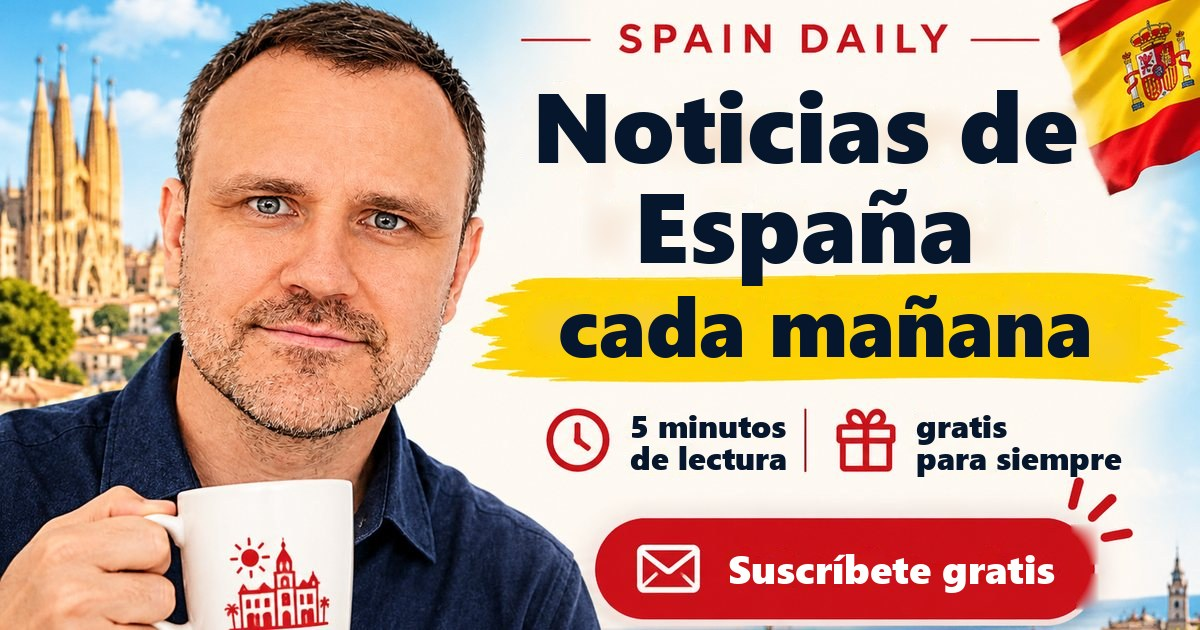
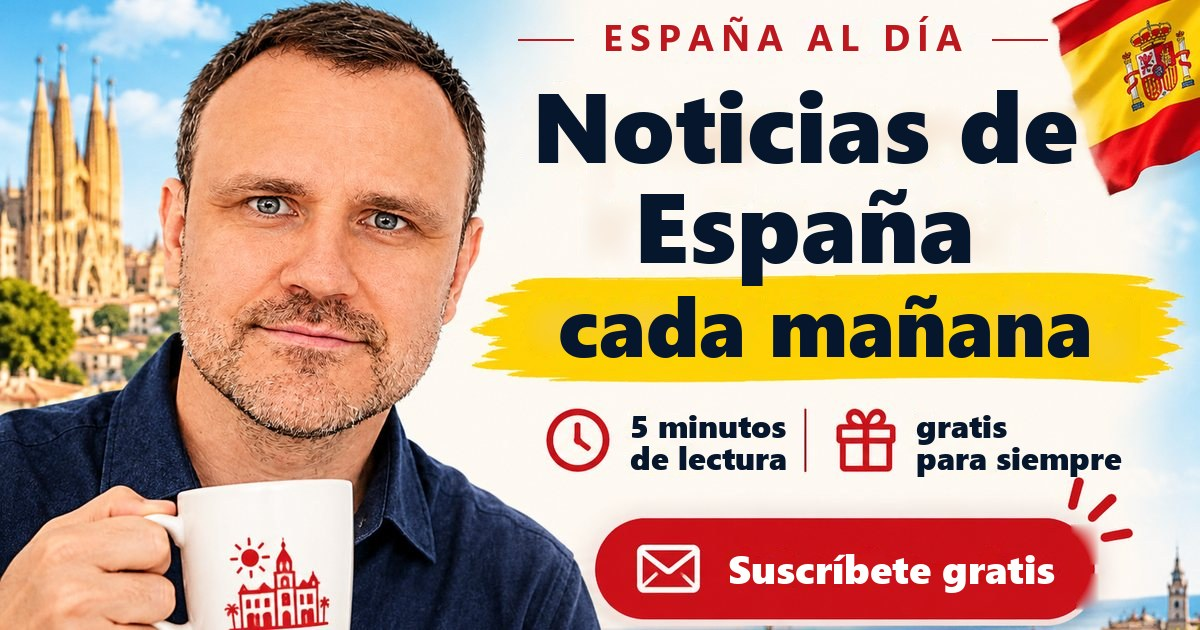
Spanish pages: rename Spain Daily to "España al Día" (#214)
Uses the Spanish brand name across /es/ pages, the Spanish form consent
line and FAQ, and the /es/subscribe og:image kicker.

Changed region(s): [[0.4317, 0.0302, 0.8633, 0.0905]]

diff --git a/templates/es/subscribe.html b/templates/es/subscribe.html
@@ -2,26 +2,26 @@
 {# Minimal Spanish /subscribe: hero + form, how it is made, editor, FAQ.
    Skips the English page's latest-edition preview, social counters and
    Reddit testimonials, which would show English text. #}
-{% block title %}Newsletter gratis de noticias de España | Spain Daily{% endblock %}
-{% block description %}<meta name="description" content="Suscríbete gratis a Spain Daily: las noticias más importantes de España en un email al día, 5 minutos de lectura. Sin spam y te das de baja cuando quieras.">
+{% block title %}Newsletter gratis de noticias de España | España al Día{% endblock %}
+{% block description %}<meta name="description" content="Suscríbete gratis a España al Día: las noticias más importantes de España en un email al día, 5 minutos de lectura. Sin spam y te das de baja cuando quieras.">
 <meta property="og:type" content="website">
 <meta property="og:locale" content="es_ES">
-<meta property="og:title" content="Newsletter gratis de noticias de España | Spain Daily">
-<meta property="og:description" content="Suscríbete gratis a Spain Daily: las noticias más importantes de España en un email al día, 5 minutos de lectura. Sin spam y te das de baja cuando quieras.">
+<meta property="og:title" content="Newsletter gratis de noticias de España | España al Día">
+<meta property="og:description" content="Suscríbete gratis a España al Día: las noticias más importantes de España en un email al día, 5 minutos de lectura. Sin spam y te das de baja cuando quieras.">
 <meta property="og:url" content="{{ site_url }}/es/subscribe">
 <meta name="twitter:card" content="summary_large_image">
-<meta name="twitter:title" content="Newsletter gratis de noticias de España | Spain Daily">
-<meta name="twitter:description" content="Suscríbete gratis a Spain Daily: las noticias más importantes de España en un email al día, 5 minutos de lectura. Sin spam y te das de baja cuando quieras.">
+<meta name="twitter:title" content="Newsletter gratis de noticias de España | España al Día">
+<meta name="twitter:description" content="Suscríbete gratis a España al Día: las noticias más importantes de España en un email al día, 5 minutos de lectura. Sin spam y te das de baja cuando quieras.">
 <meta name="twitter:image" content="https://spanified.com/static/img/social/subscribe-es.jpg">
 <meta name="robots" content="max-image-preview:large">{% endblock %}
 {% block og_image %}<meta property="og:image" content="https://spanified.com/static/img/social/subscribe-es.jpg">
 <meta property="og:image:width" content="1200">
 <meta property="og:image:height" content="630">
-<meta property="og:image:alt" content="Spain Daily: noticias de España cada mañana, 5 minutos de lectura. Suscríbete gratis.">{% endblock %}
+<meta property="og:image:alt" content="España al Día: noticias de España cada mañana, 5 minutos de lectura. Suscríbete gratis.">{% endblock %}
 {% block extra_head %}
 {% set alt_path = "/subscribe" %}{% include "partials/hreflang.html" %}
 <script type="application/ld+json">
-{"@context": "https://schema.org", "@type": "WebPage", "@id": "{{ site_url }}/es/subscribe#webpage", "name": "Suscríbete a la newsletter Spain Daily",
+{"@context": "https://schema.org", "@type": "WebPage", "@id": "{{ site_url }}/es/subscribe#webpage", "name": "Suscríbete a la newsletter España al Día",
  "url": "{{ site_url }}/es/subscribe", "inLanguage": "es",
  "isPartOf": {"@id": "{{ site_url }}/#website"}, "about": {"@id": "{{ site_url }}/#spain-daily"},
  "publisher": {"@id": "{{ site_url }}/#org"}, "isAccessibleForFree": true}
@@ -37,7 +37,7 @@
 {% block content %}
 <section class="sub-hero">
  <div class="sub-hero-main">
-  <h1>Suscríbete a la newsletter Spain Daily</h1>
+  <h1>Suscríbete a la newsletter España al Día</h1>
   <p class="sub-lede">Las noticias más importantes de España, resumidas en un email gratis al día. Llega sobre las 08:00, hora de Madrid.</p>
   {% set btn_label = "Suscribirme gratis" %}
   {% set btn_icon = true %}
@@ -46,14 +46,14 @@
   {% include "partials/subscribe-form.html" %}
   <div class="reader-proof">
    <div class="reader-proof-text">
-    <strong>Únete a los más de 1.000 suscriptores de Spain Daily</strong>
+    <strong>Únete a los más de 1.000 suscriptores de España al Día</strong>
     <span>Se envía cada día desde el {{ proof.first_issue_es }}: {{ proof.total_issues_es }} ediciones hasta hoy</span>
    </div>
   </div>
   <ul class="sub-promises">
    <li>Gratis, sin muro de pago</li>
    <li>Te das de baja con un clic desde cualquier email</li>
-   <li>Tu email solo se usa para enviarte Spain Daily (<a href="/es/privacy">privacidad</a>)</li>
+   <li>Tu email solo se usa para enviarte España al Día (<a href="/es/privacy">privacidad</a>)</li>
   </ul>
  </div>
  {# Stands in for the English page's latest-edition preview (its stories
@@ -62,7 +62,7 @@
  <aside class="sub-preview" aria-labelledby="sub-preview-title">
   <div class="sub-preview-sheet">
    <div class="sub-preview-band">
-    <span class="sub-preview-from">Spain Daily</span>
+    <span class="sub-preview-from">España al Día</span>
     <span class="sub-preview-time">08:00</span>
    </div>
    <div class="email-gold-band"></div>
@@ -102,7 +102,7 @@
 
 <section class="sub-people">
  <div class="sub-who">
-  <h2>¿Para quién es Spain Daily?</h2>
+  <h2>¿Para quién es España al Día?</h2>
   <p>Para quien quiere estar al día de lo que pasa en España sin leer una docena de webs: residentes, quienes preparan una mudanza y quienes siguen España desde fuera. Política, economía, sociedad, cultura y vida diaria, en cinco minutos y con enlace a cada fuente.</p>
  </div>
  <div class="sub-editor">

diff --git a/templates/es/terms.html b/templates/es/terms.html
@@ -2,15 +2,15 @@
 {# Spanish translation of templates/terms.html. Keep the two in sync. #}
 {% block body_class %} class="page-legal"{% endblock %}
 {% block title %}Condiciones de uso | Spanified{% endblock %}
-{% block description %}<meta name="description" content="Condiciones de uso de Spanified, la newsletter gratuita Spain Daily y su web: contenido elaborado con ayuda de IA, sin asesoramiento profesional y uso aceptable.">
+{% block description %}<meta name="description" content="Condiciones de uso de Spanified, la newsletter gratuita España al Día y su web: contenido elaborado con ayuda de IA, sin asesoramiento profesional y uso aceptable.">
 <meta property="og:type" content="article">
 <meta property="og:locale" content="es_ES">
 <meta property="og:title" content="Condiciones de uso | Spanified">
-<meta property="og:description" content="Condiciones de uso de Spain Daily, la newsletter gratuita de Spanified, y de su web.">
+<meta property="og:description" content="Condiciones de uso de España al Día, la newsletter gratuita de Spanified, y de su web.">
 <meta property="og:url" content="{{ site_url }}/es/terms">
 <meta name="twitter:card" content="summary">
 <meta name="twitter:title" content="Condiciones de uso | Spanified">
-<meta name="twitter:description" content="Condiciones de uso de Spain Daily, la newsletter gratuita de Spanified, y de su web.">
+<meta name="twitter:description" content="Condiciones de uso de España al Día, la newsletter gratuita de Spanified, y de su web.">
 <meta name="robots" content="max-image-preview:large">{% endblock %}
 
 {% block canonical %}<link rel="canonical" href="{{ site_url }}/es/terms">
@@ -20,7 +20,7 @@
 {"@context": "https://schema.org", "@type": "WebPage",
  "name": "Condiciones de uso | Spanified",
  "url": "{{ site_url }}/es/terms",
- "description": "Condiciones de uso de Spain Daily, la newsletter gratuita de Spanified, y de su web.",
+ "description": "Condiciones de uso de España al Día, la newsletter gratuita de Spanified, y de su web.",
  "inLanguage": "es",
  "about": {"@type": "Organization", "name": "Spanified", "url": "{{ site_url }}/"}}
 </script>
@@ -30,7 +30,7 @@
 
   <div class="card">
    <h2>Qué es Spanified</h2>
-   <p>Spanified publica Spain Daily, un resumen matutino gratuito de la actualidad de España que se lee en esta web y llega por email. El servicio es gratis para siempre: no hay cuentas ni muro de pago.</p>
+   <p>Spanified publica España al Día, un resumen matutino gratuito de la actualidad de España que se lee en esta web y llega por email. El servicio es gratis para siempre: no hay cuentas ni muro de pago.</p>
   </div>
 
   <div class="card">

diff --git a/templates/es/privacy.html b/templates/es/privacy.html
@@ -31,12 +31,12 @@
 
   <div class="card">
    <h2>Quiénes somos</h2>
-   <p>Spanified publica la newsletter Spain Daily y esta web. Para cualquier pregunta sobre privacidad, escribe a <a href="mailto:support@spanified.com">support@spanified.com</a>; solemos responder en un par de días.</p>
+   <p>Spanified publica la newsletter España al Día y esta web. Para cualquier pregunta sobre privacidad, escribe a <a href="mailto:support@spanified.com">support@spanified.com</a>; solemos responder en un par de días.</p>
   </div>
 
   <div class="card">
    <h2>Qué datos recogemos</h2>
-   <p><strong>El email de la newsletter.</strong> Cuando te suscribes, guardamos tu dirección de email para enviarte Spain Daily. Las suscripciones se gestionan en Listmonk, el programa de newsletters que usamos, y los emails se envían a través de un servicio de envío que trata tu dirección por cuenta nuestra. El formulario de suscripción está protegido por Cloudflare (verificación antibots Turnstile), que procesa el envío del formulario.</p>
+   <p><strong>El email de la newsletter.</strong> Cuando te suscribes, guardamos tu dirección de email para enviarte España al Día. Las suscripciones se gestionan en Listmonk, el programa de newsletters que usamos, y los emails se envían a través de un servicio de envío que trata tu dirección por cuenta nuestra. El formulario de suscripción está protegido por Cloudflare (verificación antibots Turnstile), que procesa el envío del formulario.</p>
    <p><strong>Analítica y medición de anuncios, solo con tu consentimiento.</strong> Si lo aceptas en el aviso de cookies, usamos Google Analytics 4 para saber qué páginas se leen y el píxel de Meta para medir las suscripciones que llegan desde nuestros anuncios en Facebook e Instagram. Ambos instalan cookies y envían a Google y a Meta tu dirección IP, datos de tu dispositivo y de las páginas que visitas. Si no lo aceptas, no se carga ninguno de los dos. Tienes los detalles en nuestra <a href="/es/cookies">política de cookies</a>.</p>
    <p>No tenemos cuentas de usuario, comentarios ni más rastreadores que estos. La web se lee gratis y sin registro.</p>
   </div>

diff --git a/templates/es/unsubscribe.html b/templates/es/unsubscribe.html
@@ -1,20 +1,20 @@
 {% extends "es/base.html" %}
 {% block body_class %} class="page-unsubscribe"{% endblock %}
-{% block title %}Darse de baja de Spain Daily{% endblock %}
-{% block description %}<meta name="description" content="Cómo darse de baja de Spain Daily: usa el enlace que hay al final de cualquier email.">
+{% block title %}Darse de baja de España al Día{% endblock %}
+{% block description %}<meta name="description" content="Cómo darse de baja de España al Día: usa el enlace que hay al final de cualquier email.">
 <meta name="robots" content="noindex, follow">{% endblock %}
 {% block content %}
  <div class="subscribe-intro">
   <p class="subscribe-kicker">Sentimos que te vayas</p>
   <h1>Cómo <span class="accent">darse de baja</span></h1>
-  <p>Todos los emails de Spain Daily terminan con un enlace para darte de baja, sin iniciar sesión. Puedes volver cuando quieras.</p>
+  <p>Todos los emails de España al Día terminan con un enlace para darte de baja, sin iniciar sesión. Puedes volver cuando quieras.</p>
  </div>
  {# No form, same as the English page: Listmonk's public API is subscribe-only. #}
  <div class="unsub-keep">
   <p class="confirm-kicker">Cómo funciona</p>
   <h2>Tres pasos</h2>
   <ol class="confirm-steps">
-   <li><div><strong>Abre cualquier email de Spain Daily</strong>: el más reciente es el más fácil de encontrar.</div></li>
+   <li><div><strong>Abre cualquier email de España al Día</strong>: el más reciente es el más fácil de encontrar.</div></li>
    <li><div><strong>Haz clic en el enlace de baja</strong> al final del email.</div></li>
    <li><div><strong>Confírmalo en la página que se abre</strong> y listo.</div></li>
   </ol>

diff --git a/templates/es/success.html b/templates/es/success.html
@@ -1,7 +1,7 @@
 {% extends "es/base.html" %}
 {% block body_class %} class="page-success"{% endblock %}
-{% block title %}Spain Daily: suscripción confirmada{% endblock %}
-{% block description %}<meta name="description" content="Ya estás suscrito a Spain Daily: las noticias más importantes de España, cada mañana.">
+{% block title %}España al Día: suscripción confirmada{% endblock %}
+{% block description %}<meta name="description" content="Ya estás suscrito a España al Día: las noticias más importantes de España, cada mañana.">
 <meta name="robots" content="noindex, follow">{% endblock %}
 {% block content %}
  <div class="centered-page">
@@ -10,7 +10,7 @@
   <h1>¡Suscripción confirmada!</h1>
   <p class="confirm-lead">Mañana por la mañana te llegará la primera edición. Mientras tanto:</p>
   <ol class="confirm-steps">
-   <li><div><strong>Añade el remitente a tus contactos</strong> para que Spain Daily no acabe en spam</div></li>
+   <li><div><strong>Añade el remitente a tus contactos</strong> para que España al Día no acabe en spam</div></li>
    <li><div><strong>Síguenos</strong> en <a href="https://www.threads.com/@spaindaily" target="_blank" rel="me noopener">Threads</a>, <a href="https://www.reddit.com/r/SpainDaily/" target="_blank" rel="me noopener">Reddit</a> y <a href="https://www.facebook.com/spanified" target="_blank" rel="me noopener">Facebook</a></div></li>
   </ol>
   <p class="confirm-note">¿Has cambiado de idea? <a href="/es/unsubscribe">Date de baja con un clic</a>, sin preguntas.</p>

diff --git a/templates/es/confirm.html b/templates/es/confirm.html
@@ -1,7 +1,7 @@
 {% extends "es/base.html" %}
 {% block body_class %} class="page-confirm"{% endblock %}
-{% block title %}Spain Daily: confirma tu suscripción{% endblock %}
-{% block description %}<meta name="description" content="Confirma tu suscripción a Spain Daily para empezar a recibir cada mañana las noticias más importantes de España.">
+{% block title %}España al Día: confirma tu suscripción{% endblock %}
+{% block description %}<meta name="description" content="Confirma tu suscripción a España al Día para empezar a recibir cada mañana las noticias más importantes de España.">
 <meta name="robots" content="noindex, follow">{% endblock %}
 {% block content %}
  <div class="centered-page">
@@ -10,7 +10,7 @@
   <h1>Confirma tu email</h1>
   <p class="confirm-lead">Te acabamos de enviar un email. Haz clic en el enlace de confirmación que contiene y ya estarás suscrito.</p>
   <ol class="confirm-steps">
-   <li><div><strong>Abre el email</strong> de Spain Daily (llega en un minuto)</div></li>
+   <li><div><strong>Abre el email</strong> de España al Día (llega en un minuto)</div></li>
    <li><div><strong>Haz clic en el enlace de confirmación</strong></div></li>
    <li><div><strong>Listo</strong>: la edición de mañana ya va de camino</div></li>
   </ol>

diff --git a/templates/partials/subscribe-form.html b/templates/partials/subscribe-form.html
@@ -74,7 +74,7 @@
   <label class="subscribe-form-consent">
     <input type="checkbox" name="consent" required>
     {% if es %}
-    <span>Acepto recibir Spain Daily, la <a href="/es/privacy">política de privacidad</a> y las <a href="/es/terms">condiciones de uso</a>.</span>
+    <span>Acepto recibir España al Día, la <a href="/es/privacy">política de privacidad</a> y las <a href="/es/terms">condiciones de uso</a>.</span>
     {% else %}
     <span>I agree to receive Spain Daily and accept the <a href="/privacy">data privacy statement</a> and <a href="/terms">Terms of Use</a>.</span>
     {% endif %}

diff --git a/templates/partials/es/header.html b/templates/partials/es/header.html
@@ -1,6 +1,6 @@
 <header class="site-header">
  <div class="header-inner">
-  <a href="/es/subscribe" class="brand" aria-label="Spanified: suscribirse a Spain Daily">
+  <a href="/es/subscribe" class="brand" aria-label="Spanified: suscribirse a España al Día">
    <span class="brand-text">
     <img class="brand-logo" src="/static/img/spanified-wordmark.svg?v={{ asset_version }}" alt="Spanified" width="120" height="31" decoding="async" fetchpriority="high">
     <span class="brand-tag">Las noticias de España, cada mañana</span>

diff --git a/build.py b/build.py
@@ -900,8 +900,8 @@ SUBSCRIBE_FAQ_ITEMS = [
 # Spanish twin of SUBSCRIBE_FAQ_ITEMS for /es/subscribe.
 ES_SUBSCRIBE_FAQ_ITEMS = [
     ("¿Cada cuánto llega el email?", "Una vez al día, sobre las 08:00 hora de Madrid, también los fines de semana."),
-    ("¿De verdad es gratis?", "Sí. No hay muro de pago y tu email solo se usa para enviarte Spain Daily. Nunca se vende."),
-    ("¿Qué pasa después de suscribirme?", "Te enviamos enseguida un email de confirmación. Haz clic en el enlace que contiene para empezar a recibir Spain Daily. Si no llega en unos minutos, revisa las carpetas de spam y promociones."),
+    ("¿De verdad es gratis?", "Sí. No hay muro de pago y tu email solo se usa para enviarte España al Día. Nunca se vende."),
+    ("¿Qué pasa después de suscribirme?", "Te enviamos enseguida un email de confirmación. Haz clic en el enlace que contiene para empezar a recibir España al Día. Si no llega en unos minutos, revisa las carpetas de spam y promociones."),
     ("¿Lo escribe una IA?", "La IA ayuda a resumir las noticias. Un editor revisa cada edición antes de enviarla, y cada noticia enlaza a su fuente original para que puedas comprobarla."),
 ]
 

diff --git a/test_subscribe_form_partial.py b/test_subscribe_form_partial.py
@@ -26,7 +26,7 @@ def test_lang_falls_back_to_page_lang():
 
 def test_spanish_form_copy():
     html = _render(lang="es")
-    assert "Acepto recibir Spain Daily" in html
+    assert "Acepto recibir España al Día" in html
     assert 'placeholder="tu@email.com"' in html
     assert "I agree" not in html and "Email address" not in html
 
